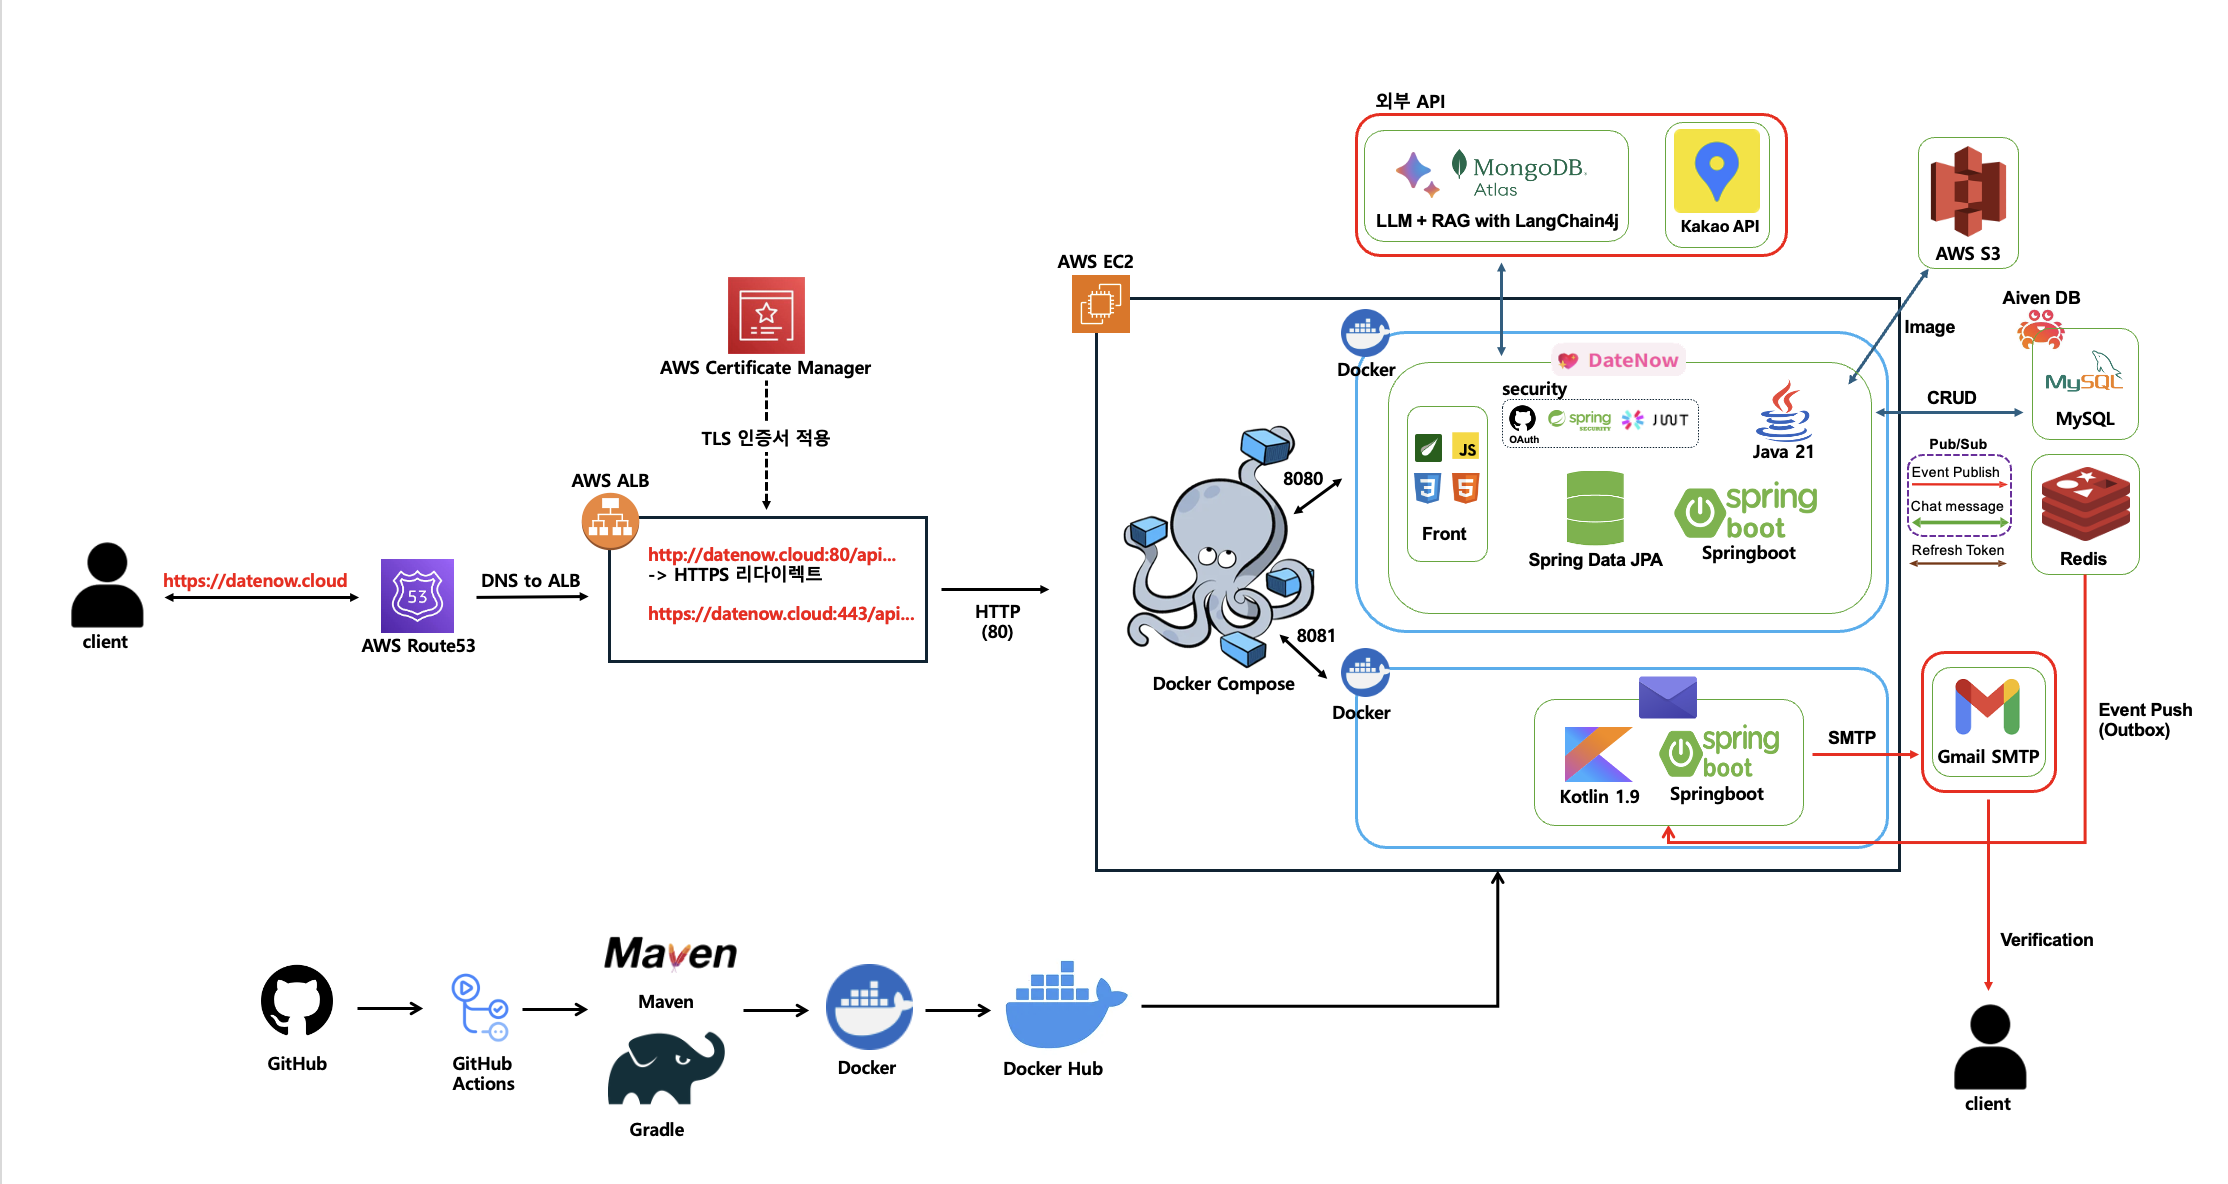
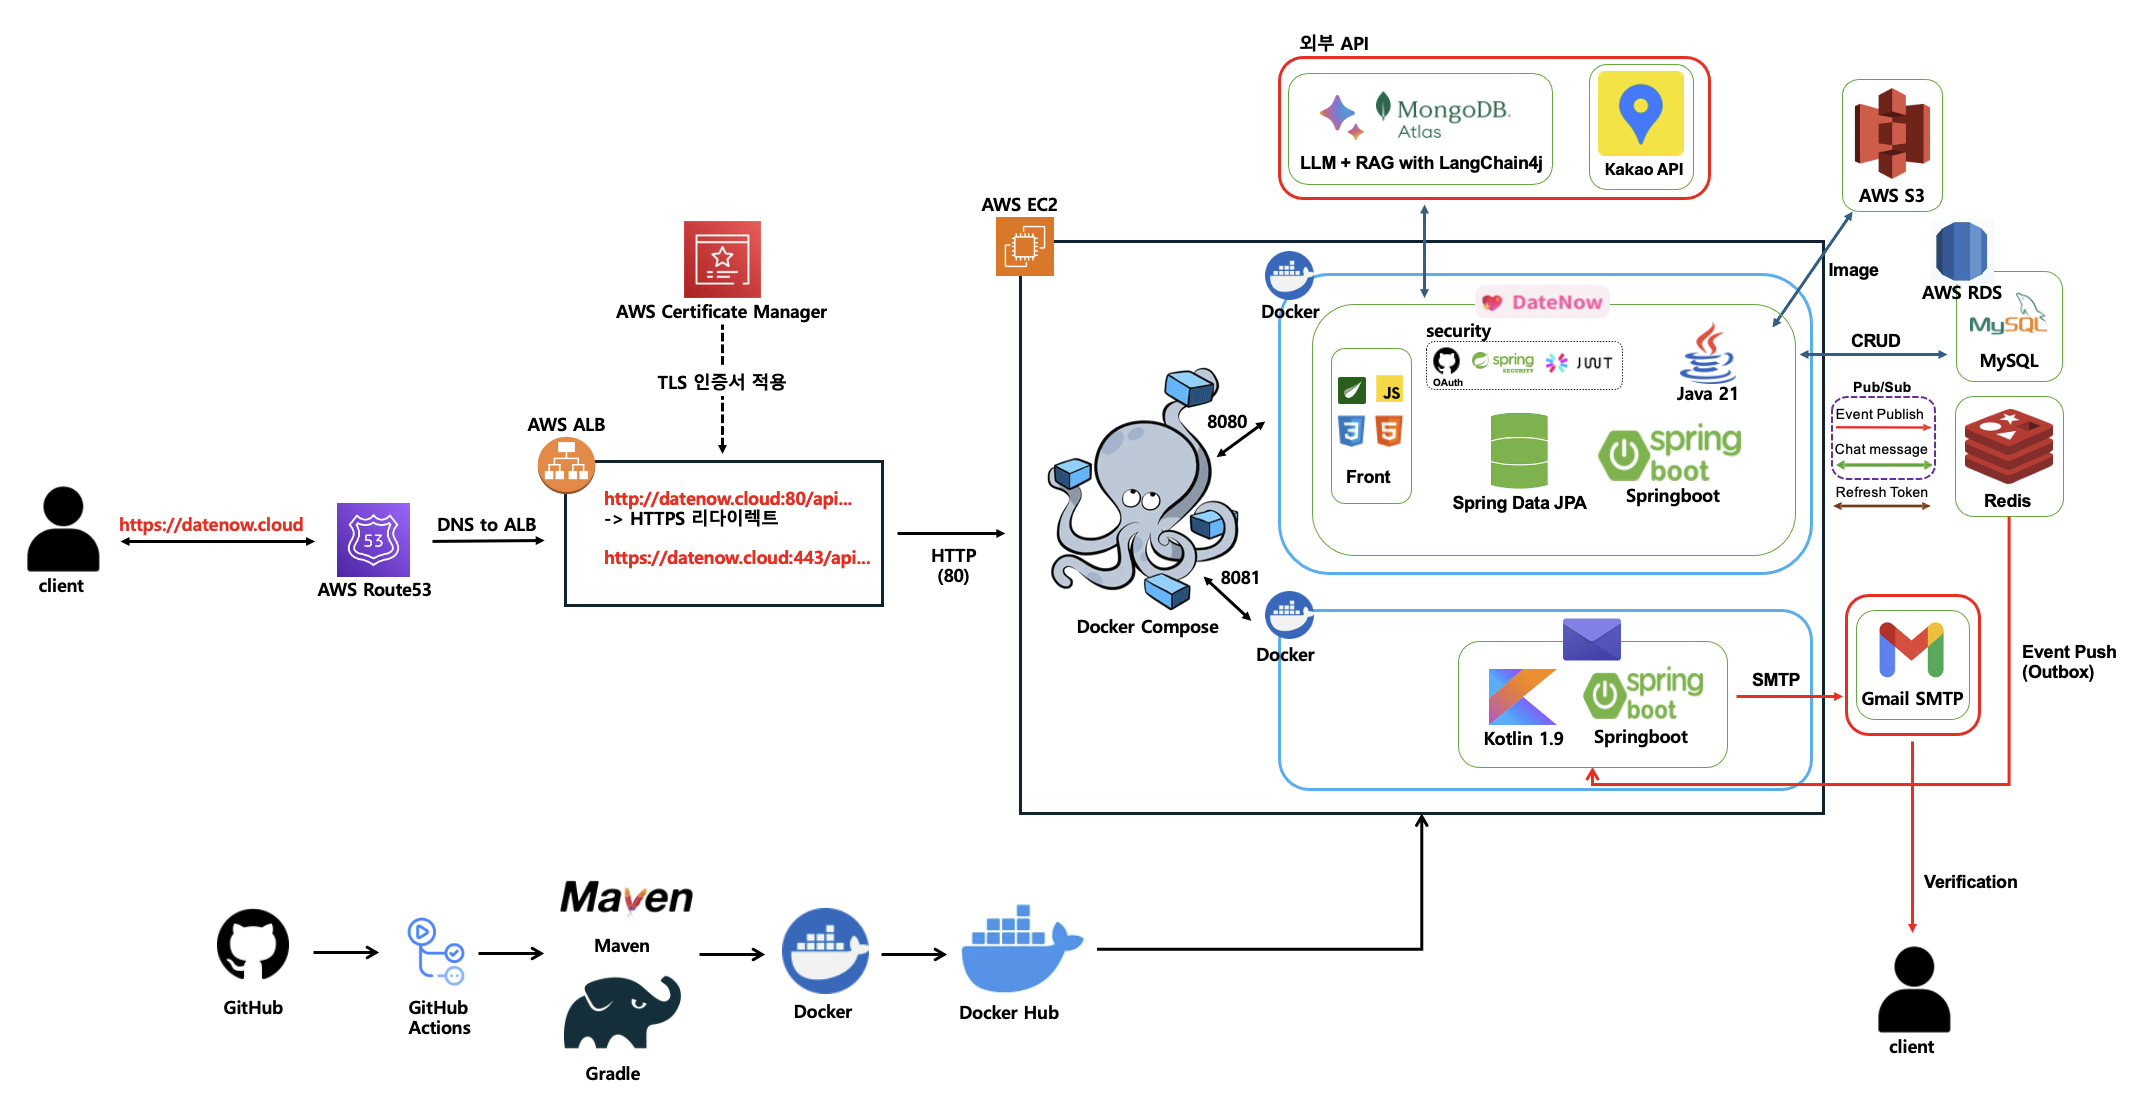
Update README.md
- readme 시스템 아키텍처 사진 교체
- gracePeriodToken 10000초 -> 10초로 변경
- deploy-build.sh 제거

Changed region(s): [[0.0, 0.0305, 0.9991, 0.9767], [0.8742, 0.763, 0.9366, 0.8241], [0.8742, 0.8546, 0.9054, 0.9461]]

diff --git a/datenow/src/main/java/com/grepp/datenow/app/model/auth/token/RefreshTokenService.java b/datenow/src/main/java/com/grepp/datenow/app/model/auth/token/RefreshTokenService.java
@@ -39,7 +39,7 @@ public class RefreshTokenService {
         refreshToken.setAtId(newTokenId);
 
         redisTemplate.opsForValue().set(newTokenId, refreshToken, Duration.ofSeconds(refreshToken.getTtl()));
-        redisTemplate.opsForValue().set(id, gracePeriodToken, Duration.ofSeconds(10000));
+        redisTemplate.opsForValue().set(id, gracePeriodToken, Duration.ofSeconds(10));
         return refreshToken;
     }
 
